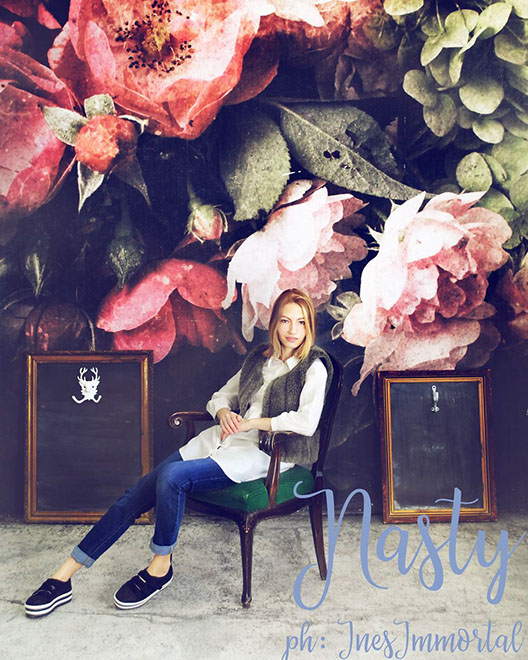
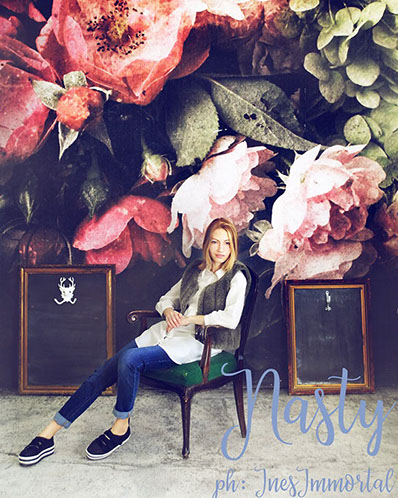
вв

diff --git a/css/index.css b/css/index.css
@@ -1,1 +1,1 @@
-.version.index{color:#000013;background-color:#CA5565;}#muse_css_mq{background-color:#FFFFFF;}#page{z-index:1;width:770px;min-height:418px;background-image:none;border-width:0px;border-color:#000000;background-color:transparent;margin-left:auto;margin-right:auto;padding:20px 82px 62px 108px;}#pu111{z-index:2;width:0.01px;}#u111{z-index:2;width:61px;height:176px;background-color:#FFFFFF;position:relative;margin-right:-10000px;left:552px;}#u94-5{z-index:3;width:446px;min-height:203px;background-color:transparent;color:#FFFFFF;font-size:80px;text-align:center;line-height:96px;font-family:Verdana, Tahoma, Geneva, sans-serif;position:relative;margin-right:-10000px;margin-top:27px;left:162px;}#u94-2{color:#BD1300;}#u98{z-index:8;width:770px;height:8px;background-color:#FFFFFF;border-radius:12px;position:relative;margin-right:-10000px;margin-top:176px;}#u101{z-index:9;width:528px;box-shadow:0px 0px 19px rgba(0,0,0,0.6);background-color:transparent;margin-left:121px;position:relative;}#u201-4{z-index:11;width:222px;min-height:53px;background-color:transparent;color:#FFFFFF;font-size:42px;line-height:50px;font-family:Geneva, Verdana, Lucida Sans, Lucida Sans Unicode, sans-serif;margin-left:261px;margin-top:60px;position:relative;}#u268{z-index:15;width:113px;-webkit-transition-duration:1s;-webkit-transition-delay:0s;-webkit-transition-timing-function:ease;transition-duration:1s;transition-delay:0s;transition-timing-function:ease;background-image:url("../images/blank.gif?crc=4208392903");border-width:0px;background-color:transparent;margin-left:316px;margin-top:12px;position:relative;}#u268:hover{-webkit-transition-duration:1s;-webkit-transition-delay:0s;-webkit-transition-timing-function:ease;transition-duration:1s;transition-delay:0s;transition-timing-function:ease;opacity:1;-ms-filter:"progid:DXImageTransform.Microsoft.Alpha(Opacity=100)";filter:alpha(opacity=100);width:113px;min-height:0px;margin:12px 0px 0px 316px;}#u268:active{opacity:0.4;-ms-filter:"progid:DXImageTransform.Microsoft.Alpha(Opacity=40)";filter:alpha(opacity=40);width:113px;min-height:0px;margin:12px 0px 0px 316px;}#u264{z-index:16;display:block;}.css_verticalspacer .verticalspacer{height:calc(100vh - 1208px);}.html{background-color:#FF0000;}body{position:relative;min-width:960px;}
+.version.index{color:#0000ED;background-color:#2AEFD1;}#muse_css_mq{background-color:#FFFFFF;}#page{z-index:1;width:581px;min-height:417.86250000000007px;background-image:none;border-width:0px;border-color:#000000;background-color:transparent;margin-left:auto;margin-right:auto;padding:20px 62px 62.13749999999993px 82px;}#pu111{z-index:2;width:0.01px;}#u111{z-index:2;width:61px;height:176px;background-color:#FFFFFF;position:relative;margin-right:-10000px;left:513px;}#u94-5{z-index:3;width:446px;min-height:203px;background-color:transparent;color:#FFFFFF;font-size:80px;text-align:center;line-height:96px;font-family:Verdana, Tahoma, Geneva, sans-serif;position:relative;margin-right:-10000px;margin-top:27px;left:122px;}#u94-2{color:#BD1300;}#u98{z-index:8;width:582px;height:8px;background-color:#FFFFFF;border-radius:12px;position:relative;margin-right:-10000px;margin-top:176px;}#u101{z-index:9;width:399px;box-shadow:0px 0px 19px rgba(0,0,0,0.6);background-color:transparent;margin-left:91px;position:relative;}#u101_img{padding-right:1px;}#u201-4{z-index:11;width:222px;min-height:53px;background-color:transparent;color:#FFFFFF;font-size:42px;line-height:50px;font-family:Geneva, Verdana, Lucida Sans, Lucida Sans Unicode, sans-serif;margin-left:170px;margin-top:61px;position:relative;}#u268{z-index:15;width:113px;-webkit-transition-duration:1s;-webkit-transition-delay:0s;-webkit-transition-timing-function:ease;transition-duration:1s;transition-delay:0s;transition-timing-function:ease;background-image:url("../images/blank.gif?crc=4208392903");border-width:0px;background-color:transparent;margin-left:342px;margin-top:11px;position:relative;}#u268:hover{-webkit-transition-duration:1s;-webkit-transition-delay:0s;-webkit-transition-timing-function:ease;transition-duration:1s;transition-delay:0s;transition-timing-function:ease;opacity:1;-ms-filter:"progid:DXImageTransform.Microsoft.Alpha(Opacity=100)";filter:alpha(opacity=100);width:113px;min-height:0px;margin:11px 0px 0px 342px;}#u268:active{opacity:0.4;-ms-filter:"progid:DXImageTransform.Microsoft.Alpha(Opacity=40)";filter:alpha(opacity=40);width:113px;min-height:0px;margin:11px 0px 0px 342px;}#u264{z-index:16;display:block;}.css_verticalspacer .verticalspacer{height:calc(100vh - 1047px);}.html{background-color:#FF0000;}body{position:relative;min-width:725px;}

diff --git a/index.html b/index.html
@@ -16,7 +16,7 @@ if(typeof Muse == "undefined") window.Muse = {}; window.Muse.assets = {"required
   <title>Домашняя</title>
   <!-- CSS -->
   <link rel="stylesheet" type="text/css" href="css/site_global.css?crc=444006867"/>
-  <link rel="stylesheet" type="text/css" href="css/index.css?crc=332027237" id="pagesheet"/>
+  <link rel="stylesheet" type="text/css" href="css/index.css?crc=3979014097" id="pagesheet"/>
     <!--custom head HTML-->
   <!-- Chrome, Firefox OS and Opera -->
 <meta name="theme-color" content="#FF0000">
@@ -43,13 +43,13 @@ visibility: visible !important;
     <div class="rounded-corners grpelem" id="u98"><!-- simple frame --></div>
    </div>
    <div class="shadow clip_frame colelem" id="u101"><!-- image -->
-    <img class="block" id="u101_img" src="images/16583779_640723122802841_3964217495237165056_n.jpg?crc=4013879903" alt="" width="528" height="660"/>
+    <img class="block" id="u101_img" src="images/16583779_640723122802841_3964217495237165056_n.jpg?crc=200480873" alt="" width="398" height="498"/>
    </div>
    <div class="clearfix colelem" id="u201-4"><!-- content -->
     <p>WELCOME</p>
    </div>
    <a class="nonblock nontext transition clip_frame colelem" id="u268" href="https://vk.com/phioletovaya"><!-- svg --><img class="svg" id="u264" src="images/vk-svg.svg?crc=3834419026" width="113" height="113" alt="" data-mu-svgfallback="images/vk-svg_poster_.png?crc=135746704"/></a>
-   <div class="verticalspacer" data-offset-top="1148" data-content-above-spacer="1147" data-content-below-spacer="61"></div>
+   <div class="verticalspacer" data-offset-top="986" data-content-above-spacer="986" data-content-below-spacer="61"></div>
   </div>
   <!-- Other scripts -->
   <script type="text/javascript">
